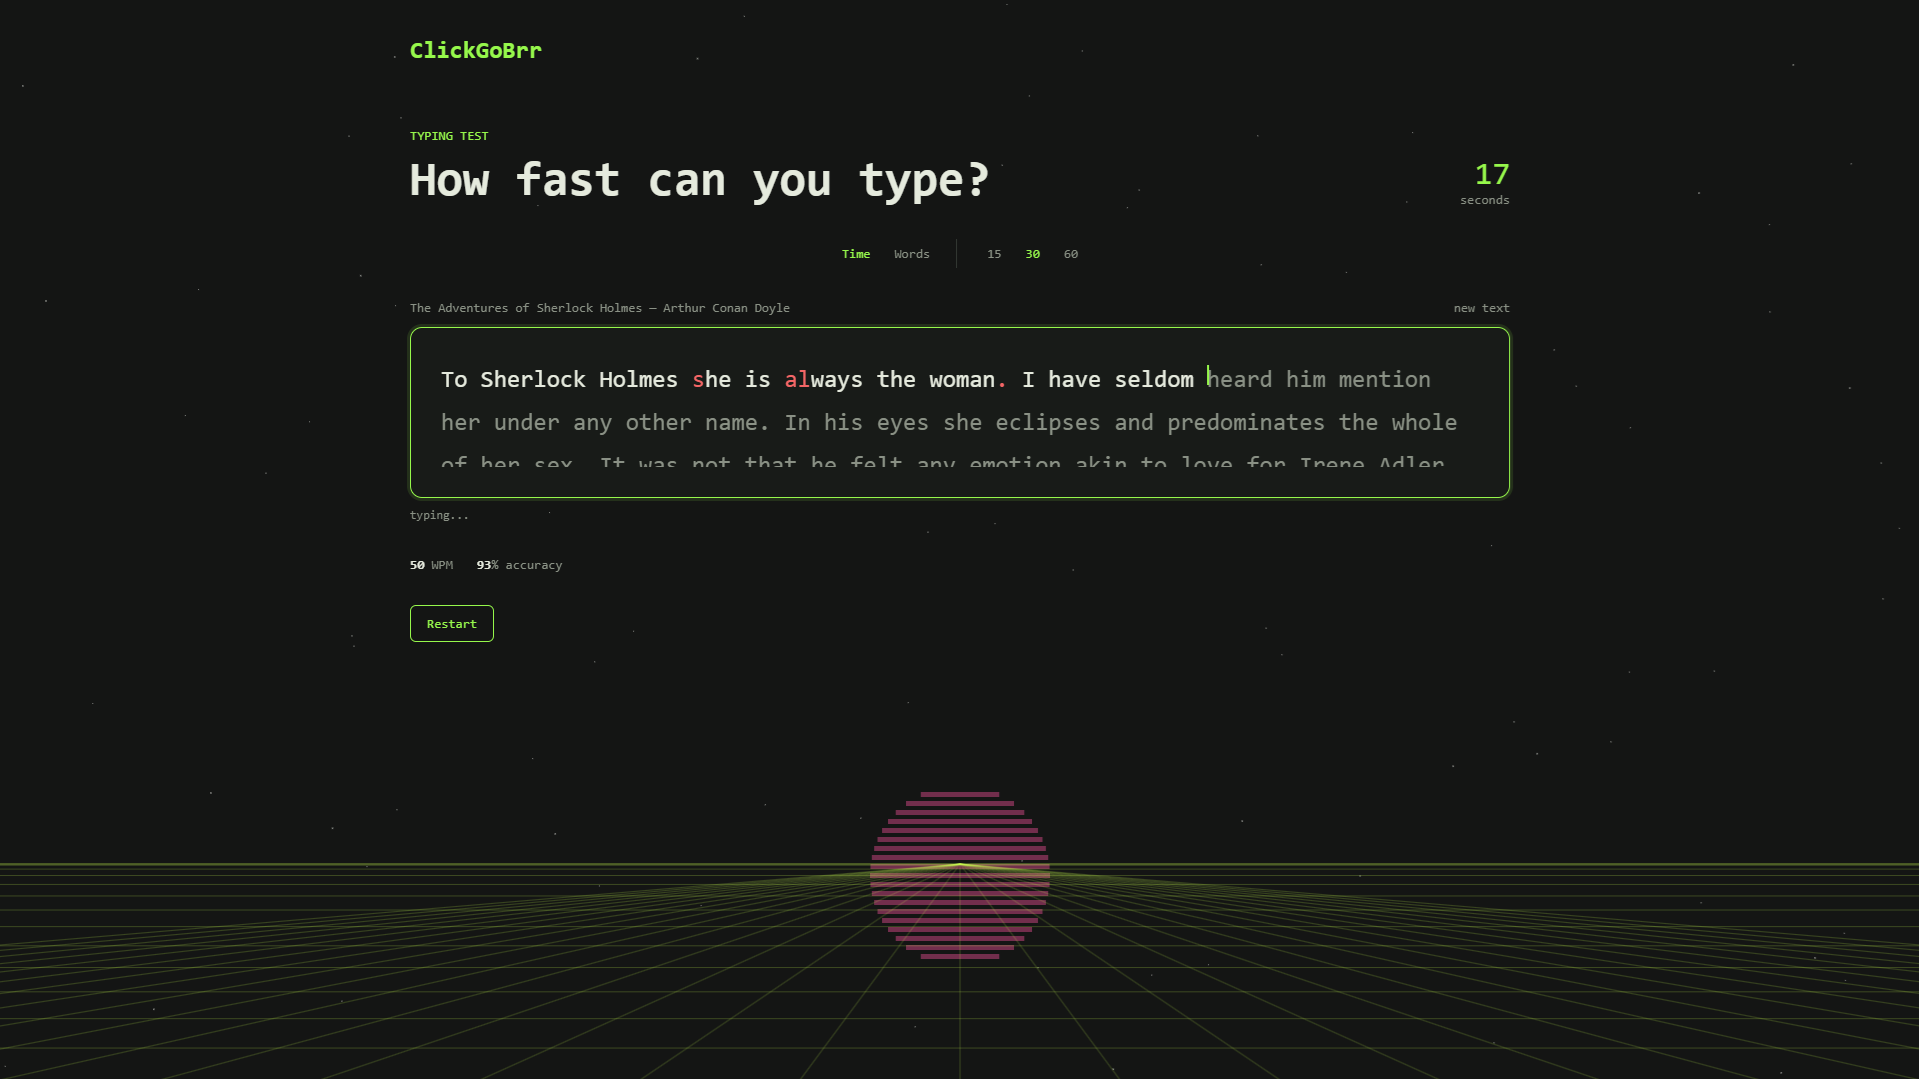
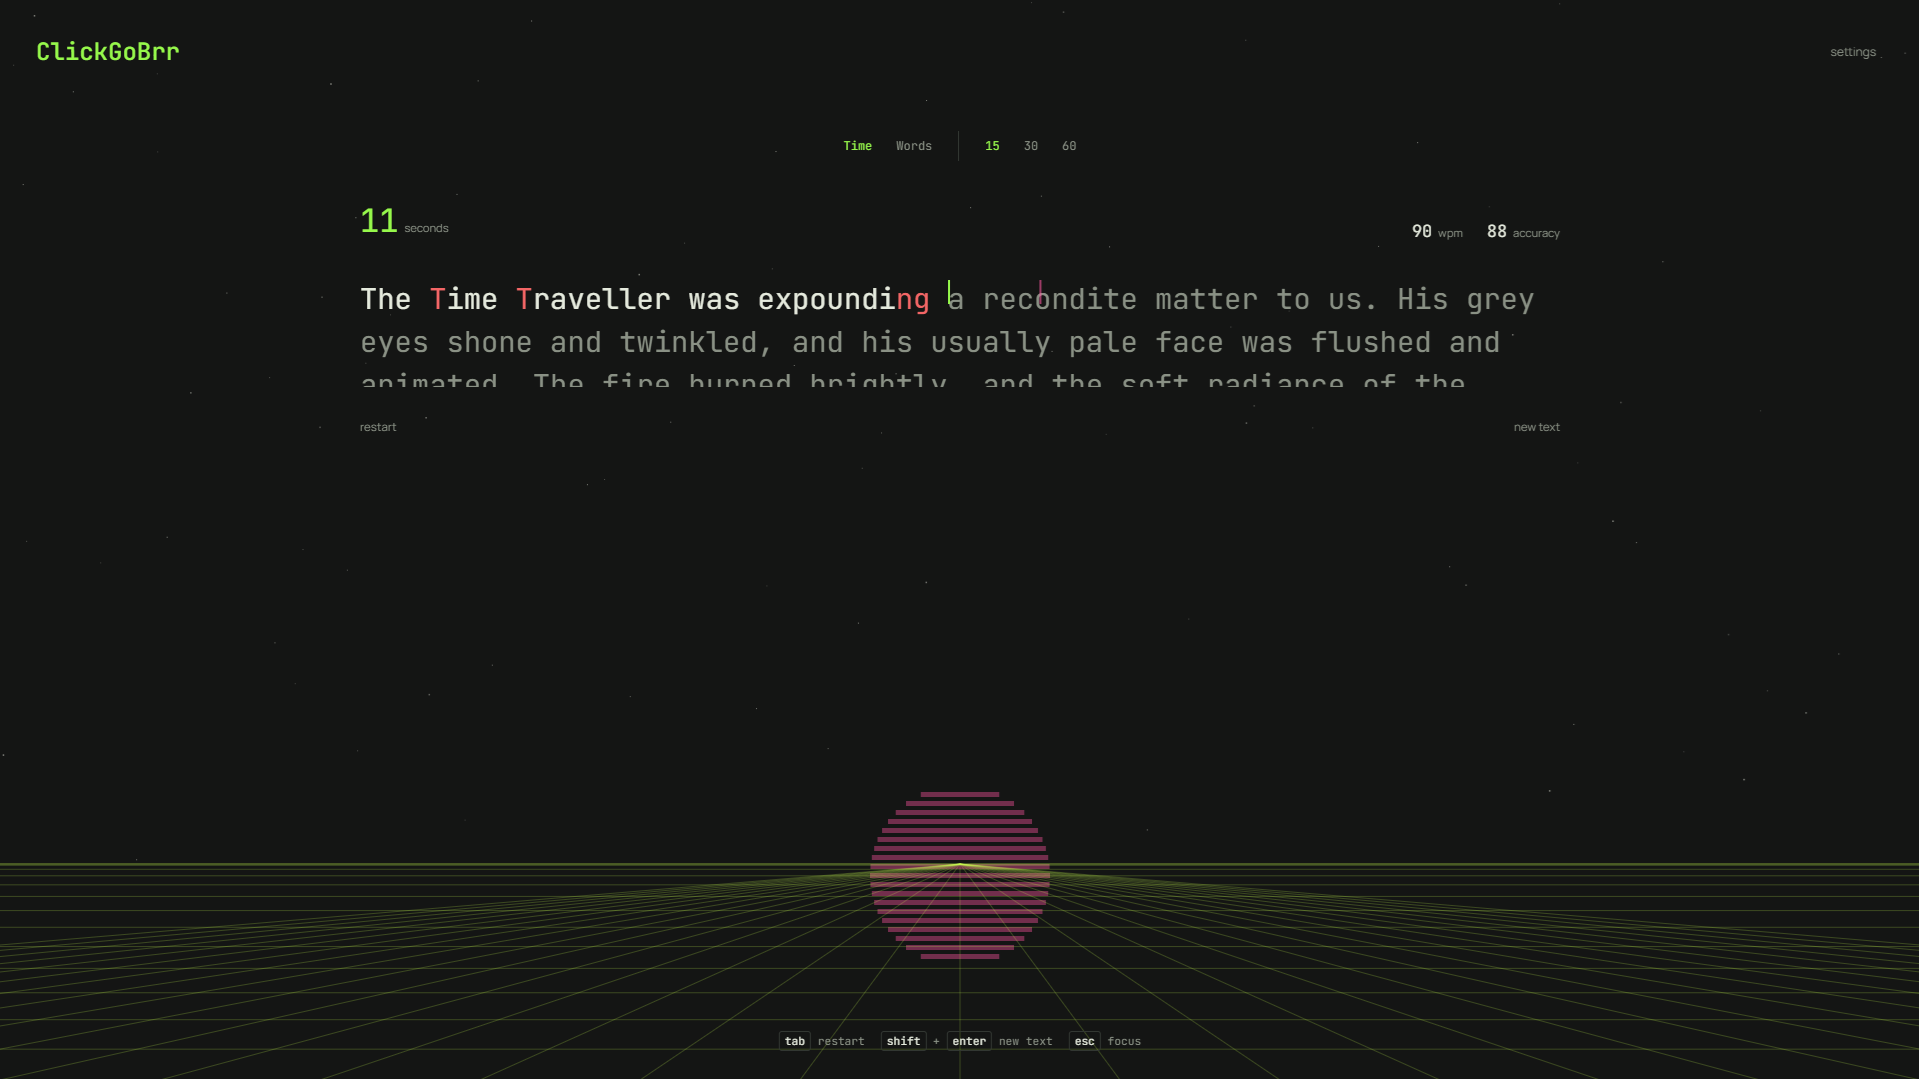
Updated README and added link to github on main page

diff --git a/css/style.css b/css/style.css
@@ -424,15 +424,22 @@ button:hover {
 
 .shortcuts {
   position: fixed;
-  left: 50%;
+  left: clamp(16px, 2.5vw, 36px);
+  right: clamp(16px, 2.5vw, 36px);
   bottom: 2rem;
   z-index: 2;
   display: flex;
-  gap: 16px;
+  align-items: center;
+  justify-content: space-between;
   color: var(--muted);
   font-family: "JetBrains Mono", monospace;
   font-size: 0.7rem;
-  transform: translateX(-50%);
+}
+.footer-left,
+.footer-right {
+  display: flex;
+  align-items: center;
+  gap: 16px;
 }
 .shortcuts kbd {
   padding: 2px 5px;
@@ -440,6 +447,13 @@ button:hover {
   border-radius: 3px;
   color: var(--text);
   font: inherit;
+}
+.shortcuts a {
+  color: var(--muted);
+  text-decoration: none;
+}
+.shortcuts a:hover {
+  color: var(--accent);
 }
 .site-header,
 .test-options,

diff --git a/index.html b/index.html
@@ -149,9 +149,15 @@
   </div>
 
   <footer class = "shortcuts">
-    <span><kbd>tab</kbd> restart</span>
-    <span><kbd>shift</kbd> + <kbd>enter</kbd> new text</span>
-    <span><kbd>esc</kbd> focus</span>
+    <div class="footer-left">
+      <span><kbd>tab</kbd> restart</span>
+      <span><kbd>shift</kbd> + <kbd>enter</kbd> new text</span>
+      <span><kbd>esc</kbd> focus</span>
+    </div>
+
+    <div class="footer-right">
+      <a href="https://github.com/swaznil/clickgobrr" target="_blank">github</a>
+    </div>
   </footer>
 
   <audio id="background-music" src="assets/retrowave-electronica.mp3" loop preload="metadata"></audio>

diff --git a/README.md b/README.md
@@ -22,7 +22,9 @@ https://clickgobrr.vercel.app/
 
 ### Screenshots
 
-![Screenshot](assets/screenshot01.png)
+![Typing Test](assets/screenshot01.png)
+
+![Settings](assets/Screenshot02.png)
 
 ---
 
@@ -35,6 +37,8 @@ https://clickgobrr.vercel.app/
 - Multiple passages to test
 - Keyboard shortcuts
 - Focus mode
+- Live Background toggle
+- Background music
 
 ---
 
@@ -61,7 +65,7 @@ clickgobrr
 └── js/
     ├── app.js          # Typing logic
     ├── background.js   # Background canvas
-    ├── extra.js        # Ghost race and more
+    ├── extra.js        # Ghost race, Background music and more
     └── main.js         # Main script
 ```
 
